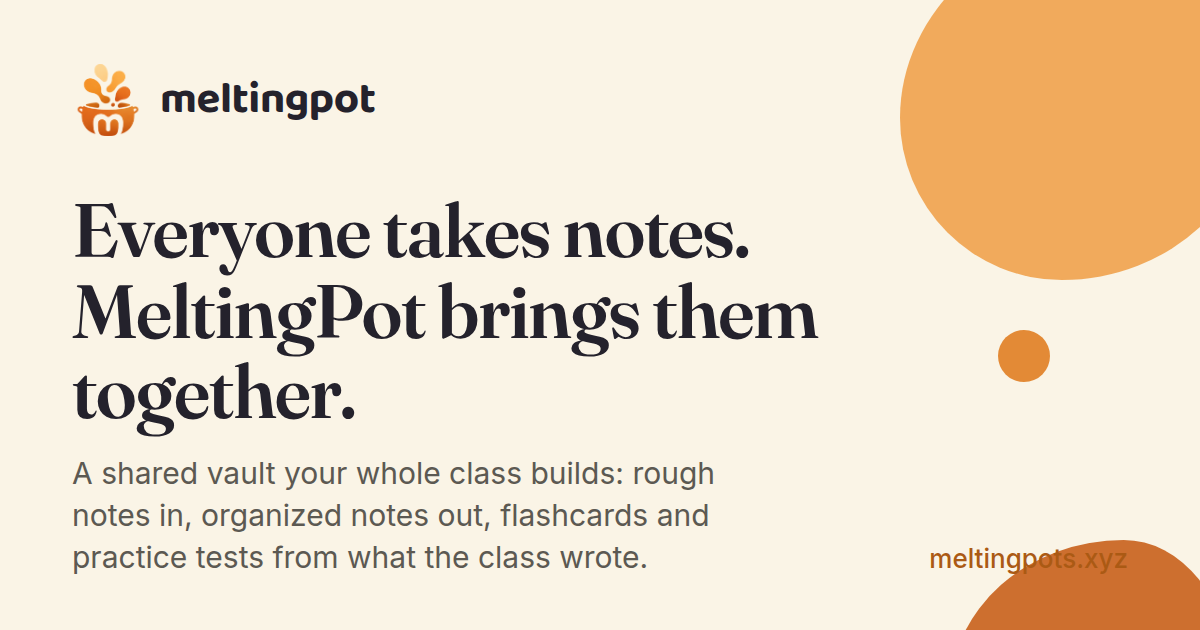
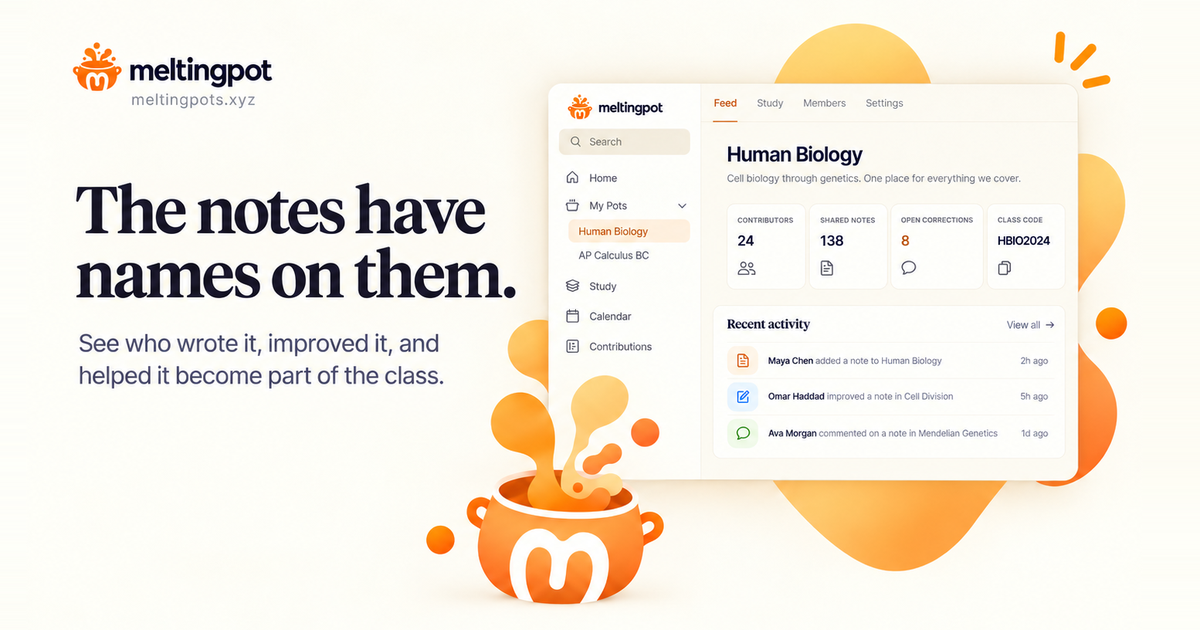
The social card is the owner's own artwork, and Clerk is live
The card is the dashboard beside "The notes have names on them.", from
the owner's file on main. It arrived 1448x1086 and social previews want
1.91:1, so rather than crop the composition it is centred on its own
content with the background extended at the sides, which is seamless
because the sides are empty, then scaled to 1200x630. Nothing in the
design is lost and the frame is filled.

Clerk works on the live site: the Supabase third-party auth entry had
never actually been added, which is why every signed in page failed
after the switch. With it added, the whole path was walked from here
against meltingpots.xyz with a probe account, from sign in through
Home, settings, Calendar, Contributions, the class code preview,
joining, the Pot feed, Flashcards and search. Both checklists say so.

Gates: lint, typecheck, 372 unit tests, build.

Claude-Session: https://claude.ai/code/session_01Hxtzt5CM7DEjiGcnETxEWC

diff --git a/web/app/layout.tsx b/web/app/layout.tsx
@@ -74,7 +74,12 @@ export const metadata: Metadata = {
     title: "MeltingPot",
     description:
       "Everyone takes notes. MeltingPot brings them together: one shared vault a class builds and studies from.",
-    images: [{ url: "/og.png", width: 1200, height: 630, alt: "MeltingPot: everyone takes notes, MeltingPot brings them together." }],
+    images: [{
+      url: "/og.png",
+      width: 1200,
+      height: 630,
+      alt: "A MeltingPot class dashboard beside the line: the notes have names on them.",
+    }],
   },
   twitter: {
     card: "summary_large_image",

diff --git a/docs/CLERK.md b/docs/CLERK.md
@@ -21,10 +21,10 @@ session that starts fresh reads it before anything else.
 | 1.6 Keys sent back | Done 2026-09-08 | Production publishable key `pk_live_Y2xlcmsubWVsdGluZ3BvdHMueHl6JA` (decodes to clerk.meltingpots.xyz). The secret key stays with the owner |
 | 2. Production instance | Created 2026-09-08 | Cloned from development, domain meltingpots.xyz; its checklist shows keys (pk_live_ seen), Google sign in (later), and Add DNS records (next) |
 | 3. DNS records and certificates | Done 2026-09-08 | Five CNAMEs on Netlify DNS (accounts, clerk, clk._domainkey, clk2._domainkey, clkmail, targets on 72va09v0hzx7.clerk.services and clerk.services), verified by Clerk; https://clerk.meltingpots.xyz/v1/environment answers over https with instance_environment_type production, so the certificates deployed on their own and no button was needed. Google was removed from SSO connections; it comes back with custom credentials when the button is built. Passkeys stay off until the app has a screen for them |
-| 2. Supabase third-party auth | Needs re-saving, 2026-09-08 | The entry was recorded as clerk.meltingpots.xyz, but Supabase answers every production token with "No suitable key was found to decode the JWT" (PGRST301): it does not hold the key Clerk signs with (kid ins_3J1i1xW89J8a6Zt77mEzNozuJYs, the one at https://clerk.meltingpots.xyz/.well-known/jwks.json). Open Authentication, Sign In / Providers, Third Party Auth; remove the Clerk entry and add it again with exactly `clerk.meltingpots.xyz`; wait a few minutes. Until then nobody can use the site signed in: a new account lands on the sign in form with "Sign in is not available on this site right now" |
+| 2. Supabase third-party auth | Done 2026-09-08 | The entry was never actually added, which is why every production token came back "No suitable key was found to decode the JWT" (PGRST301) from the switch until this evening. The owner added Clerk under Authentication, Sign In / Providers, Third Party Auth with the domain `clerk.meltingpots.xyz`, and Postgres accepted the next token straight away |
 | 3. Netlify variables and redeploy | Switched 2026-09-08 | meltingpot-csc carries NEXT_PUBLIC_AUTH_PROVIDER=clerk, NEXT_PUBLIC_CLERK_PUBLISHABLE_KEY, APP_ORIGIN=https://meltingpots.xyz and CLERK_SECRET_KEY (owner's hand). Commit c75a53d went live as deploy 6a9f93095a53e76f7e42b056: the login page loads clerk-js from clerk.meltingpots.xyz, the policy names Clerk's hosts, protected paths bounce to /login through clerkMiddleware. The trial site `meltingpot-trial` was never deployed; the owner deletes it |
 | 4. Existing accounts | Done 2026-09-08 | Ten accounts created in the production instance with their password hashes (one authenticator carried over), all ten mapped in profiles.clerk_id, before the deploy. The owner pasted the secret key here for it; it was used once, written nowhere, and the export and mapping files were deleted |
-| 5. Checks on the live site | Blocked on step 2 | From outside: landing, login (with clerk-js), the BIO101 preview answer 200; /home and /me/settings bounce to /login. The signed in walk (step 5 list) is the owner's, since a headless browser cannot reach the site from the build sandbox |
+| 5. Checks on the live site | Done 2026-09-08 | Signed in walk run from here against meltingpots.xyz once step 2 landed (lesson 016 got the sandbox browser onto the live site): sign in, Home, settings, Calendar, Contributions, the BIO101 preview, joining it, the Pot feed, Flashcards and search all render, with no Supabase refusals |
 
 ## What is already in place
 

diff --git a/docs/BUILDLOG.md b/docs/BUILDLOG.md
@@ -426,3 +426,4 @@ Known follow-ups, documented not built (feature gaps or minor polish, no securit
 - App: a refused session now reads as signed out with the reason in the server log, so the sign in form says sign in is unavailable rather than every page crashing. The error boundaries wear the 404's design through a shared frame (`components/errors/melt-frame.tsx`), with "5 pot 0" and the digest as a reference. Sign up asks for the password twice. Decision 044.
 - SEO and crawlers: absolute metadata base, description, Open Graph and Twitter cards with a rendered og.png, canonical per page, robots and sitemap routes, llms.txt, schema.org data on the landing, noindex on private paths and sign in doors. The custom 404 was confirmed live.
 - Deployed as 6aa02f2238a2cbe98f7dc4e8 at https://meltingpots.xyz (a first upload failed because a node_modules link had been left in the deploy worktree; the worktree must hold the committed tree and nothing else). Checked live from here: a new account's sign in now shows "Sign in is not available on this site right now" and /home sends it to the form rather than the error boundary; the 404 is on the frame; robots.txt, sitemap.xml, llms.txt and og.png answer 200; the sign in doors carry X-Robots-Tag noindex; the netlify.app alias answers 308 to the domain. Signed in pages stay unreachable until the owner re-saves the Supabase entry.
+- Evening: the owner added the Clerk entry under Supabase third-party auth, which turned out never to have been there rather than misconfigured. The whole signed in path was then walked from here against the live site with a probe account: sign in, Home, settings, Calendar, Contributions, the BIO101 preview, joining it, the Pot feed, Flashcards and search, with no Supabase refusals and nothing in the console. The social card was replaced with the owner's own artwork (the dashboard beside "The notes have names on them"), fitted from 1448x1086 to the 1200x630 social frame by centring the content and extending the background at the sides rather than cropping the composition.

diff --git a/docs/OWNER_SETUP.md b/docs/OWNER_SETUP.md
@@ -32,7 +32,7 @@ the deploy that reads it.
 | Sessions, Customize session token: the two claims in docs/CLERK.md step 1.6 (email from primary_email_address, two_factor from two_factor_enabled) | Owner | Done 2026-09-08 on the development instance; check the clone carries it |
 | dashboard.clerk.com/setup/supabase: Activate Supabase integration; note the Clerk domain it reveals | Owner | Done 2026-09-08 on production |
 | Configure, API keys: send the publishable key and the Clerk domain here; keep the secret key | Owner | Done 2026-09-08 (production keys) |
-| Supabase: Authentication, Sign In / Providers, Third Party Auth, Add Clerk, paste the Clerk domain | Owner | Re-save needed 2026-09-08: Supabase rejects every production token with "No suitable key" (docs/CLERK.md, step 2). Remove the Clerk entry, add it again as `clerk.meltingpots.xyz`, wait a few minutes, then sign in |
+| Supabase: Authentication, Sign In / Providers, Third Party Auth, Add Clerk, paste the Clerk domain | Owner | Done 2026-09-08 (`clerk.meltingpots.xyz`). It had not in fact been added before, which is what broke every signed in page after the switch |
 | Switch the main site: variables, secret, account import, deploy | Both | Done 2026-09-08 (deploy 6a9f93095a53e76f7e42b056); the live site signs in through Clerk. Step 5 walk is the owner's next act; `meltingpot-trial` should be deleted in Netlify |
 | Walk docs/CLERK.md step 5 on the live site (sign in, sign out, password change, second factor off and on, share a note with a picture, profile picture, a fresh sign up from a class code) | Owner; a headless browser cannot reach the live site from the build sandbox | Open, the owner's next act |
 | Clerk dashboard, Production: Configure, Paths (sign in meltingpots.xyz/login, sign up meltingpots.xyz/signup, sign out to meltingpots.xyz/login) and Configure, Branding (pot mark, primary color #ab5a14, Clerk branding off) | Owner | Paths seen in progress 2026-09-08; Branding open |
